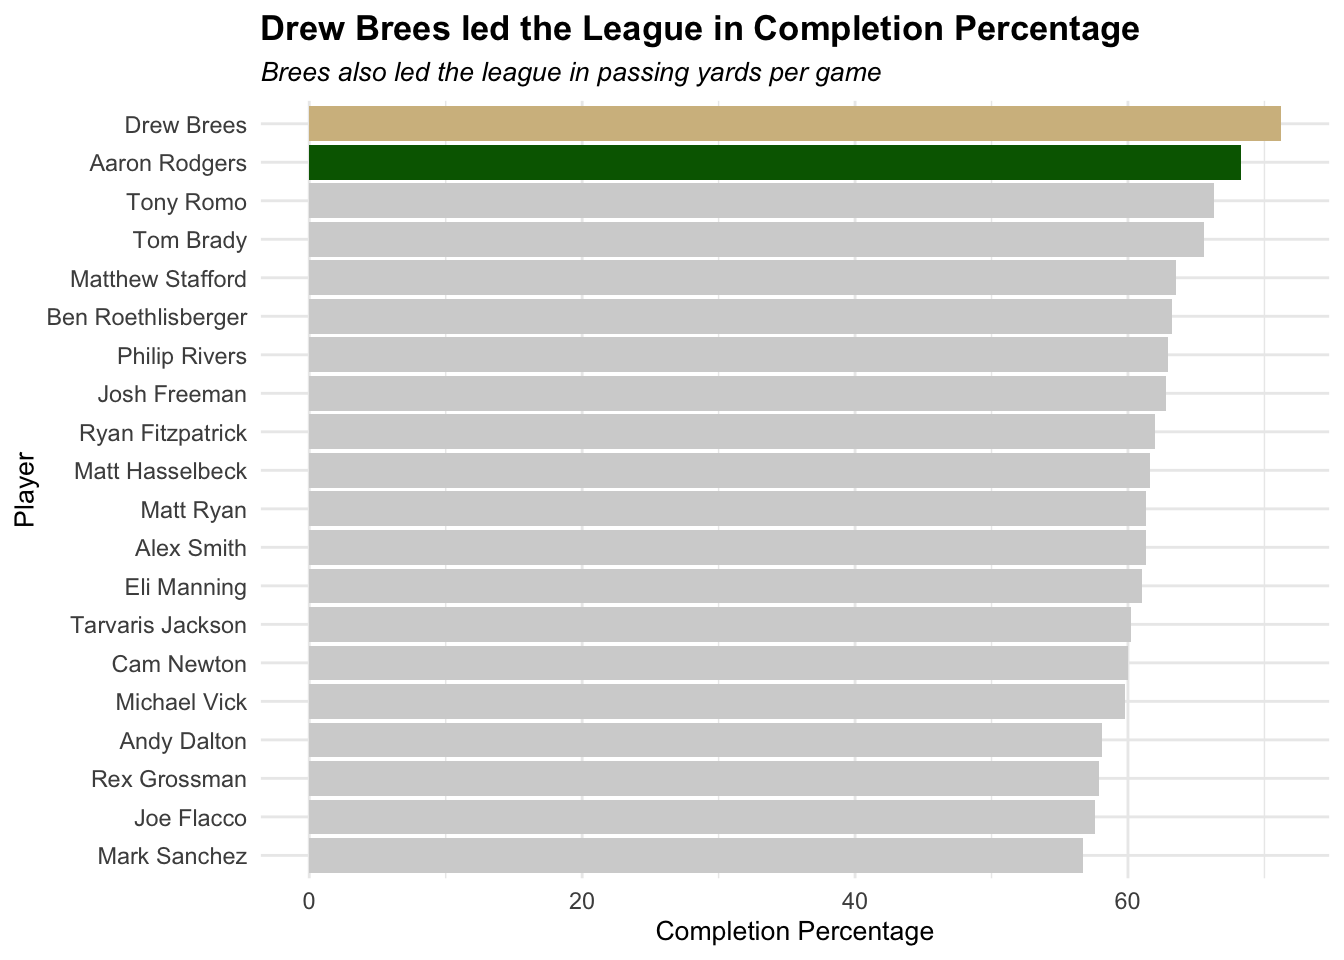
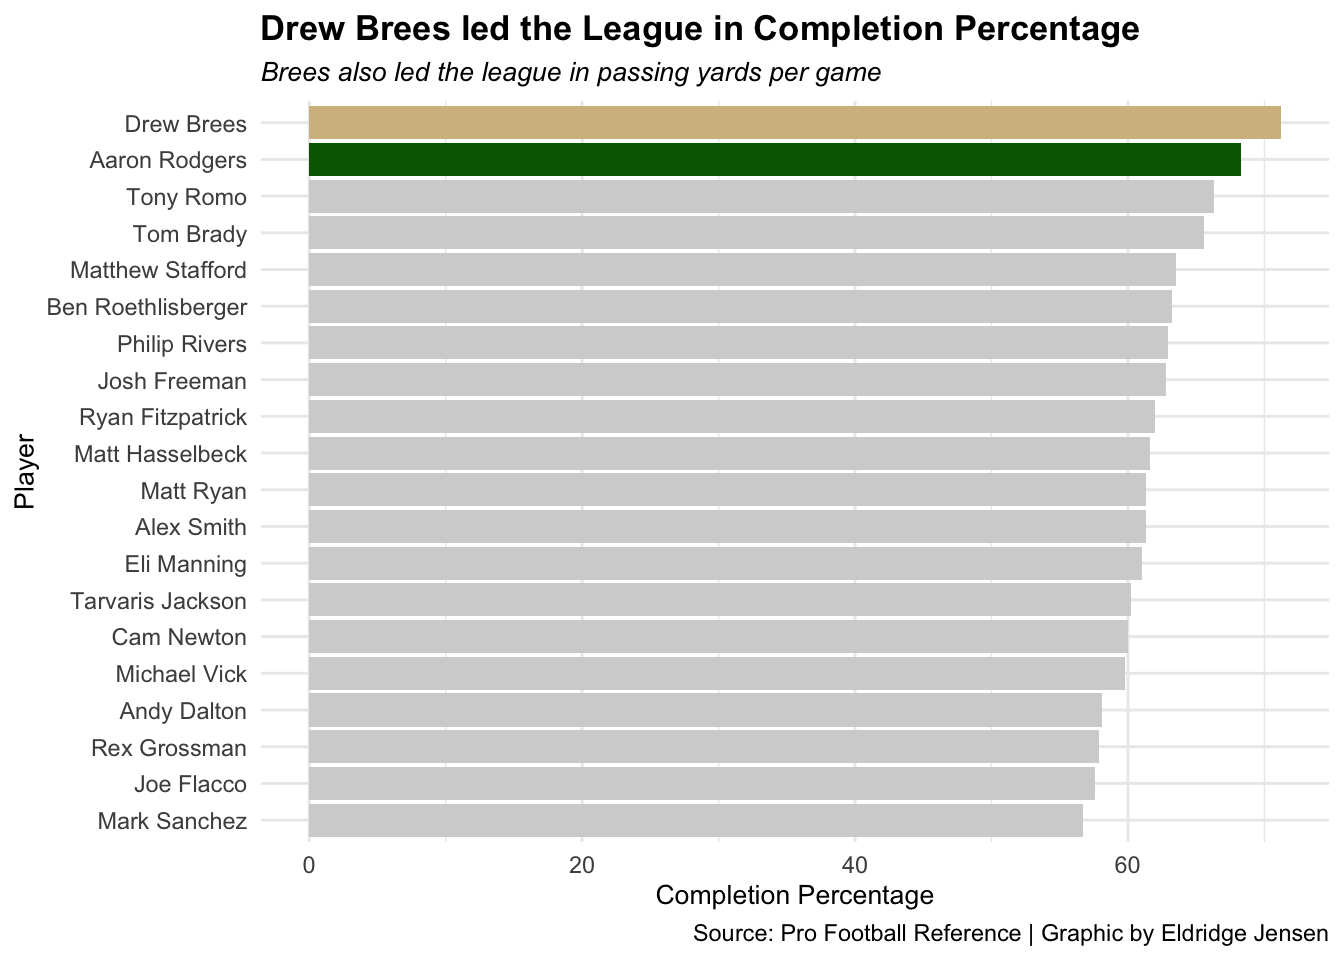
FINAL?

Changed region(s): [[0.0, 0.125, 1.0, 1.0]]

diff --git a/posts/brees-mvp-rodgers-2011/index.html b/posts/brees-mvp-rodgers-2011/index.html
@@ -356,13 +356,14 @@ code span.wa { color: #60a0b0; font-weight: bold; font-style: italic; } /* Warni
 <span id="cb14-8"><a href="#cb14-8" aria-hidden="true" tabindex="-1"></a>   <span class="at">title =</span> <span class="st">"Drew Brees led the League in Completion Percentage"</span>,</span>
 <span id="cb14-9"><a href="#cb14-9" aria-hidden="true" tabindex="-1"></a>   <span class="at">subtitle =</span> <span class="st">"Brees also led the league in passing yards per game"</span>,</span>
 <span id="cb14-10"><a href="#cb14-10" aria-hidden="true" tabindex="-1"></a>   <span class="at">x=</span> <span class="st">"Player"</span>,</span>
-<span id="cb14-11"><a href="#cb14-11" aria-hidden="true" tabindex="-1"></a>   <span class="at">y=</span> <span class="st">"Completion Percentage"</span></span>
-<span id="cb14-12"><a href="#cb14-12" aria-hidden="true" tabindex="-1"></a>  )<span class="sc">+</span></span>
-<span id="cb14-13"><a href="#cb14-13" aria-hidden="true" tabindex="-1"></a>  <span class="fu">theme</span>( </span>
-<span id="cb14-14"><a href="#cb14-14" aria-hidden="true" tabindex="-1"></a>    <span class="at">plot.title =</span> <span class="fu">element_text</span>(<span class="at">size =</span> <span class="dv">13</span>, <span class="at">face =</span> <span class="st">"bold"</span>),</span>
-<span id="cb14-15"><a href="#cb14-15" aria-hidden="true" tabindex="-1"></a>    <span class="at">plot.subtitle =</span> <span class="fu">element_text</span>(<span class="at">size =</span> <span class="dv">10</span>, <span class="at">face=</span> <span class="st">"italic"</span>),</span>
-<span id="cb14-16"><a href="#cb14-16" aria-hidden="true" tabindex="-1"></a>     <span class="at">axis.title =</span> <span class="fu">element_text</span>(<span class="at">size =</span> <span class="dv">10</span>)</span>
-<span id="cb14-17"><a href="#cb14-17" aria-hidden="true" tabindex="-1"></a>  )</span></code><button title="Copy to Clipboard" class="code-copy-button"><i class="bi"></i></button></pre></div>
+<span id="cb14-11"><a href="#cb14-11" aria-hidden="true" tabindex="-1"></a>   <span class="at">y=</span> <span class="st">"Completion Percentage"</span>,</span>
+<span id="cb14-12"><a href="#cb14-12" aria-hidden="true" tabindex="-1"></a>   <span class="at">caption =</span> <span class="st">"Source: Pro Football Reference | Graphic by Eldridge Jensen"</span></span>
+<span id="cb14-13"><a href="#cb14-13" aria-hidden="true" tabindex="-1"></a>  )<span class="sc">+</span></span>
+<span id="cb14-14"><a href="#cb14-14" aria-hidden="true" tabindex="-1"></a>  <span class="fu">theme</span>( </span>
+<span id="cb14-15"><a href="#cb14-15" aria-hidden="true" tabindex="-1"></a>    <span class="at">plot.title =</span> <span class="fu">element_text</span>(<span class="at">size =</span> <span class="dv">13</span>, <span class="at">face =</span> <span class="st">"bold"</span>),</span>
+<span id="cb14-16"><a href="#cb14-16" aria-hidden="true" tabindex="-1"></a>    <span class="at">plot.subtitle =</span> <span class="fu">element_text</span>(<span class="at">size =</span> <span class="dv">10</span>, <span class="at">face=</span> <span class="st">"italic"</span>),</span>
+<span id="cb14-17"><a href="#cb14-17" aria-hidden="true" tabindex="-1"></a>     <span class="at">axis.title =</span> <span class="fu">element_text</span>(<span class="at">size =</span> <span class="dv">10</span>)</span>
+<span id="cb14-18"><a href="#cb14-18" aria-hidden="true" tabindex="-1"></a>  )</span></code><button title="Copy to Clipboard" class="code-copy-button"><i class="bi"></i></button></pre></div>
 </details>
 <div class="cell-output-display">
 <p><img src="index_files/figure-html/unnamed-chunk-12-1.png" class="img-fluid" width="672"></p>

diff --git a/index.html b/index.html
@@ -171,7 +171,7 @@ ul.task-list li input[type="checkbox"] {
 
 <div class="quarto-listing quarto-listing-container-default" id="listing-listing">
 <div class="list quarto-listing-default">
-<div class="quarto-post image-right" data-index="0" data-categories="football,NFL,MVP" data-listing-date-sort="1681621200000" data-listing-file-modified-sort="1681687271898" data-listing-reading-time-sort="4.58">
+<div class="quarto-post image-right" data-index="0" data-categories="football,NFL,MVP" data-listing-date-sort="1681621200000" data-listing-file-modified-sort="1681687575518" data-listing-reading-time-sort="4.645">
 <div class="thumbnail">
 <p><a href="./posts/brees-mvp-rodgers-2011/index.html"> <img src="./posts/brees-mvp-rodgers-2011/image.png" class="thumnail-image"> </a></p>
 </div>
